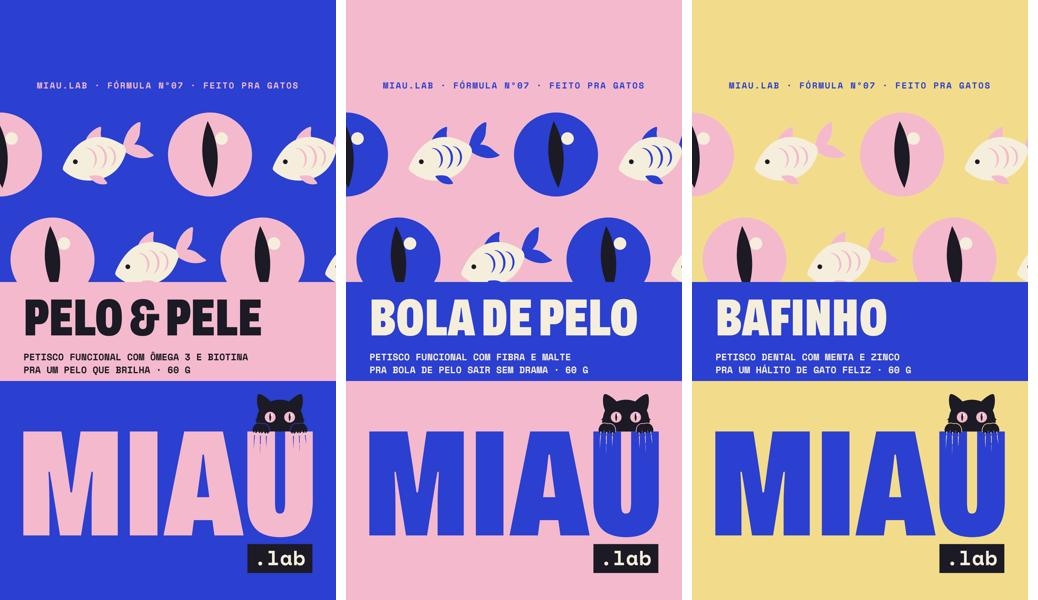
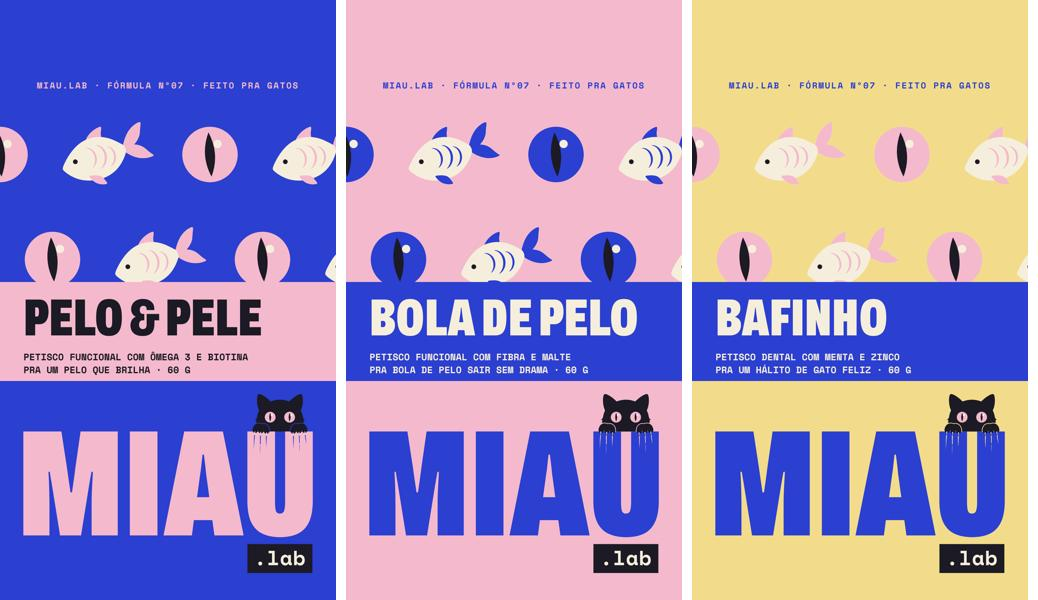
MIAU.LAB: olho do padrão menor (equilibra com o peixinho)
Claude-Session: https://claude.ai/code/session_01CmCiK9WG5RWJH1hBNUU9U9

diff --git a/Emi/ems-5-direcoes-pet/projeto/marcas/miaulab/post/arte.html b/Emi/ems-5-direcoes-pet/projeto/marcas/miaulab/post/arte.html
@@ -28,8 +28,10 @@ function padrao(x, y, w, h, cel, fundo, tipo = 'remedio') {
   for (let j = -1, l = 0; j * cel < h + cel; j++, l++) for (let i = -1; i * cel < w + cel; i++) {
     const cx = i * cel + cel / 2 + (l % 2 ? cel / 2 : 0), cy = j * cel + cel / 2;
     const olhoCor = fundo === C.rosa ? C.cobalto : C.rosa;
-    if ((i + l) % 2 === 0) s += `<g transform="translate(${cx} ${cy}) rotate(${(i * 7 + l * 13) % 2 ? 6 : -4})"><circle r="${r}" fill="${olhoCor}"/>`
-      + `<path d="M0 ${-r * .8} Q${r * .36} 0 0 ${r * .8} Q${-r * .36} 0 0 ${-r * .8} Z" fill="${C.nanquim}"/><circle cx="${r * .3}" cy="${-r * .36}" r="${r * .15}" fill="#F6EEDC"/></g>`;
+    // olho menor que o desenho do lado (a Emi: "os olhos são muito grandes"): ?olho= fração do raio, padrão .66
+    const ro = r * +(q.get('olho') || .66);
+    if ((i + l) % 2 === 0) s += `<g transform="translate(${cx} ${cy}) rotate(${(i * 7 + l * 13) % 2 ? 6 : -4})"><circle r="${ro}" fill="${olhoCor}"/>`
+      + `<path d="M0 ${-ro * .8} Q${ro * .36} 0 0 ${ro * .8} Q${-ro * .36} 0 0 ${-ro * .8} Z" fill="${C.nanquim}"/><circle cx="${ro * .3}" cy="${-ro * .36}" r="${ro * .15}" fill="#F6EEDC"/></g>`;
     else if (tipo === 'peixe') { const kp = r * 2.15 / PEIXE.w;   // peixinho gerado no Figma e vetorizado (peixe/vetoriza.py)
       s += `<g transform="translate(${cx} ${cy}) rotate(-22) scale(${kp}) translate(${-PEIXE.w / 2} ${-PEIXE.h / 2})">`
         + `<path d="${PEIXE.creme}" fill="#F6EEDC"/><path d="${PEIXE.rosa}" fill="${olhoCor}"/><path d="${PEIXE.preto}" fill="${C.nanquim}"/></g>`; }
